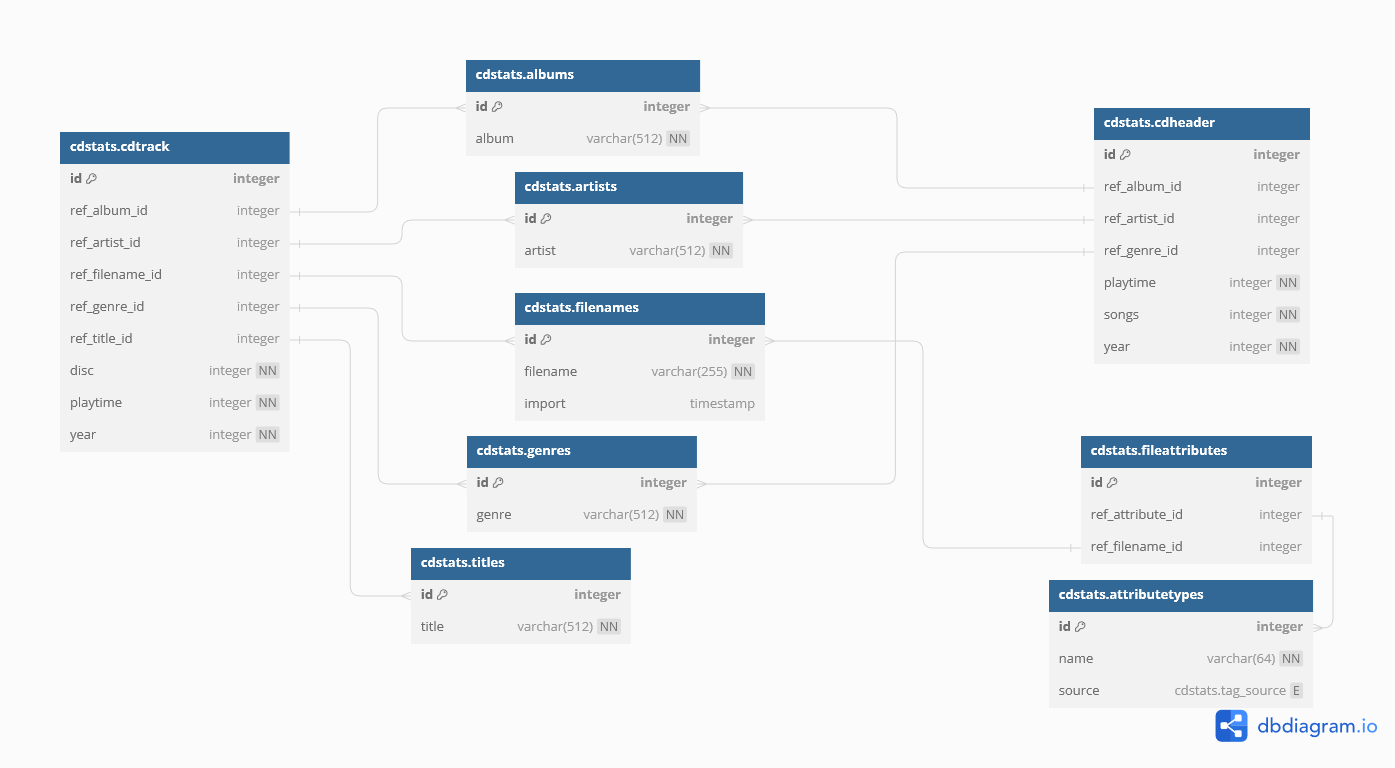
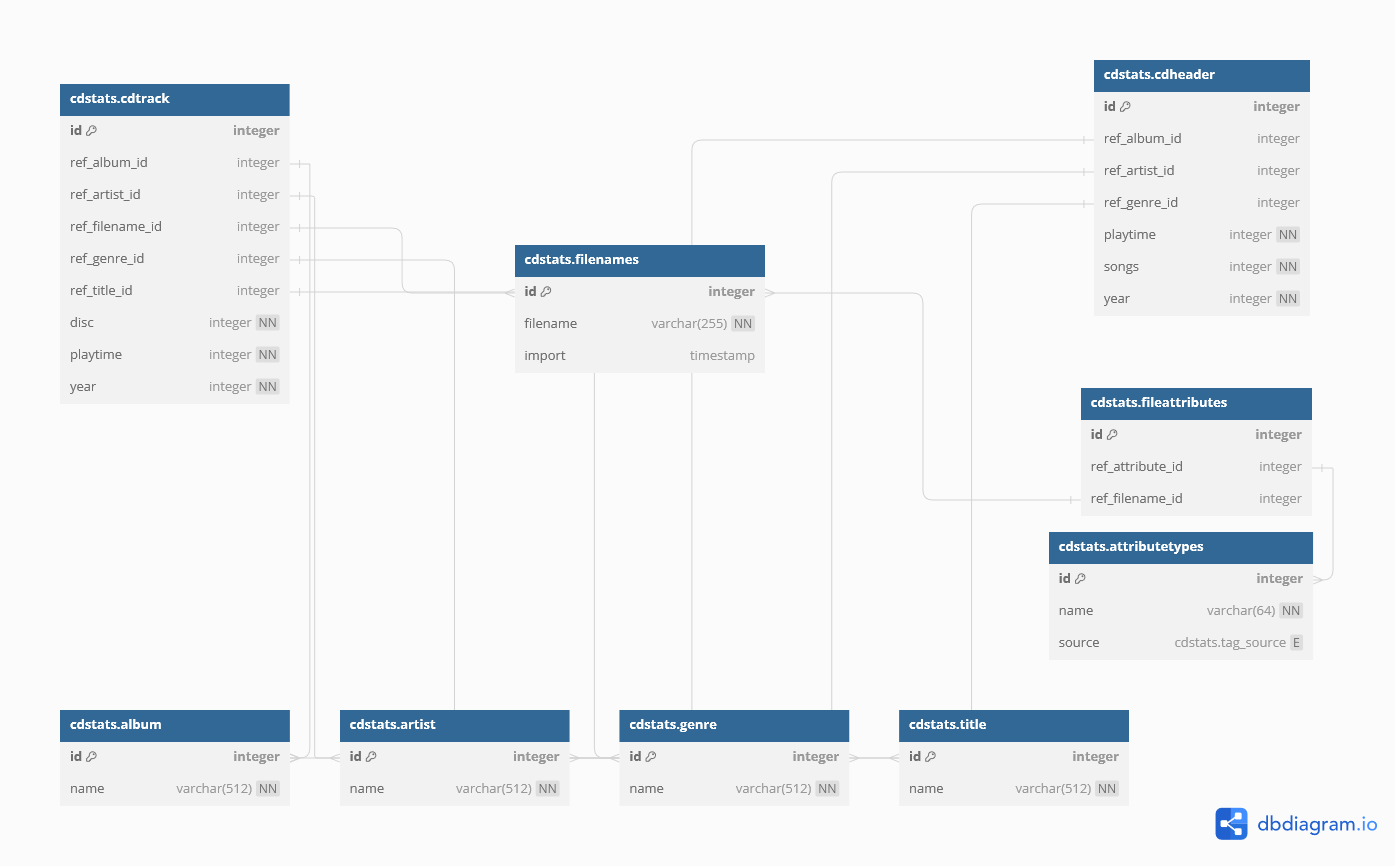
#FIX Use correct naming CdStats instead of MModel #FIX Use correct naming Artist instead of MArtist #NEW Add Album entity

diff --git a/datacollector/HandleID3.cs b/datacollector/HandleID3.cs
@@ -10,7 +10,7 @@ namespace net.derpaul.cdstats
     internal class HandleID3
     {
         private List<string> filenamesMP3;
-        private MModel DBInstance;
+        private CdStats DBInstance;
 
         public HandleID3(List<string> filenamesMP3)
         {
@@ -21,7 +21,7 @@ namespace net.derpaul.cdstats
         {
             bool ret = true;
 
-            DBInstance = new MModel(new DbContextOptions<MModel>());
+            DBInstance = new CdStats(new DbContextOptions<CdStats>());
             DBInstance.Database.EnsureCreated();
 
             return ret;
@@ -31,15 +31,29 @@ namespace net.derpaul.cdstats
         {
             foreach (string filename in filenamesMP3)
             {
+                // Read ID3 tag
                 var tagID3 = TagLib.File.Create(filename);
-                var artist = tagID3.Tag.FirstArtist;
-                var Oartist = DBInstance.DBArtist.Where(a => a.artist == artist).FirstOrDefault();
+
+                // Handle of album
+                var album = tagID3.Tag.Album;
+                var Oalbum = DBInstance.Album.Where(a => a.name == album).FirstOrDefault();
+                if (Oalbum == null)
+                {
+                    Oalbum = new Album { name = album };
+                    DBInstance.Add(Oalbum);
+                    DBInstance.SaveChanges();
+                }
+
+                // Handle of artist
+                var artist = tagID3.Tag.FirstPerformer;
+                var Oartist = DBInstance.Artist.Where(a => a.name == artist).FirstOrDefault();
                 if (Oartist == null)
                 {
-                    Oartist = new MArtist { artist = artist };
+                    Oartist = new Artist { name = artist };
                     DBInstance.Add(Oartist);
                     DBInstance.SaveChanges();
                 }
+                break;
             }
         }
     }

diff --git a/datacollector/model/CdStats.cs b/datacollector/model/CdStats.cs
@@ -9,11 +9,12 @@ using System.Reflection;
 
 namespace net.derpaul.cdstats
 {
-    public class MModel : DbContext
+    public class CdStats : DbContext
     {
-        public DbSet<MArtist> DBArtist { get; set; }
+        public DbSet<Album> Album { get; set; }
+        public DbSet<Artist> Artist { get; set; }
 
-        public MModel(DbContextOptions<MModel> options) : base(options)
+        public CdStats(DbContextOptions<CdStats> options) : base(options)
         {
         }
 
@@ -31,12 +32,20 @@ namespace net.derpaul.cdstats
 
         protected override void OnModelCreating(ModelBuilder modelBuilder)
         {
-            // Entity for measurement types
-            modelBuilder.Entity<MArtist>().ToTable("artist");
-            modelBuilder.Entity<MArtist>(entity =>
+            // Entity for albums
+            modelBuilder.Entity<Album>().ToTable("album");
+            modelBuilder.Entity<Album>(entity =>
             {
                 entity.HasKey(e => e.id);
-                entity.HasIndex(e => e.artist).IsUnique();
+                entity.HasIndex(e => e.name).IsUnique();
+            });
+
+            // Entity for artists
+            modelBuilder.Entity<Artist>().ToTable("artist");
+            modelBuilder.Entity<Artist>(entity =>
+            {
+                entity.HasKey(e => e.id);
+                entity.HasIndex(e => e.name).IsUnique();
             });
 
             // Create the model

diff --git a/datacollector/model/Album.cs b/datacollector/model/Album.cs
@@ -1,0 +1,21 @@
+using Newtonsoft.Json.Linq;
+using System.Collections.Generic;
+
+namespace net.derpaul.cdstats
+{
+    /// <summary>
+    /// Entity for artists
+    /// </summary>
+    public class Album
+    {
+        /// <summary>
+        /// ID as primary key
+        /// </summary>
+        public ulong id { get; set; }
+
+        /// <summary>
+        /// Measurement location
+        /// </summary>
+        public string name { get; set; }
+    }
+}

diff --git a/datacollector/model/Artist.cs b/datacollector/model/Artist.cs
@@ -6,7 +6,7 @@ namespace net.derpaul.cdstats
     /// <summary>
     /// Entity for artists
     /// </summary>
-    public class MArtist
+    public class Artist
     {
         /// <summary>
         /// ID as primary key
@@ -16,6 +16,6 @@ namespace net.derpaul.cdstats
         /// <summary>
         /// Measurement location
         /// </summary>
-        public string artist { get; set; }
+        public string name { get; set; }
     }
 }

diff --git a/README.md b/README.md
@@ -36,17 +36,23 @@ The data collector will work the following steps:
 ## Tasks
 
 - ~~Create ERM for project using [DBDiagram.io][tool_dbdiagram]~~ Done 03.08.2024
-- Initial project
+- ~~Initial project~~ Done 04.08.2024
 - Create [data collector][app_datacollector] - see README.md there
 
 ### ERM diagram
 
 ![cdstats ERM diagram](./doc/cdstats.png "cdstats ERM diagram")
 
-## Notes
+## Technology
 
-Some code will be picked and transformed from my other project [Weatherstation][project_weatherstation].
+- This program is written in [C#][code_c#]
+- Inspired from my other project [Weatherstation][project_weatherstation]
+  - The configuration file handling
+  - The plugin system
+- Reading the ID3 tags is based on [TagLibSharp][lib_taglibsharp]
 
 [app_datacollector]: ./datacollector/README.md
+[code_c#]: https://learn.microsoft.com/en-us/dotnet/csharp/tour-of-csharp/
+[lib_taglibsharp]: https://github.com/mono/taglib-sharp
 [project_weatherstation]: https://github.com/ThirtySomething/Weatherstation
 [tool_dbdiagram]: https://dbdiagram.io/

diff --git a/datacollector/README.md b/datacollector/README.md
@@ -2,8 +2,8 @@
 
 This program is responsible to
 
-- ~~Check given path for existence, abort if not exists~~ 03.08.2024
-- ~~Retrieve list of MP3 files~~ 04.08.2024
+- ~~Check given path for existence, abort if not exists~~ Done 03.08.2024
+- ~~Retrieve list of MP3 files~~ Done 04.08.2024
 - Foreach MP3 file
-  - Read ID3 tag
+  - ~~Read ID3 tag~~ Done 04.08.2024
   - Store meta data in database
